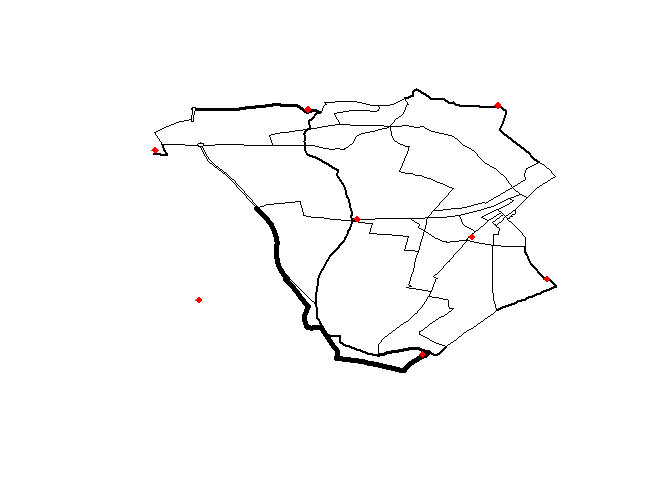
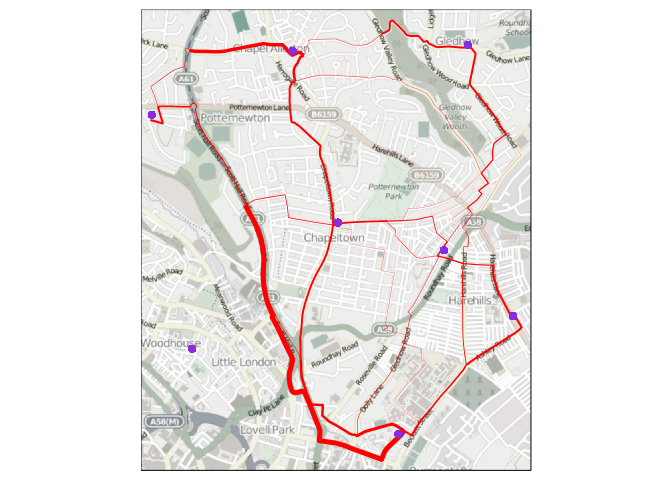
Update README to plot the flow on the basemap
Fixes this issue (that never was!) https://github.com/mtennekes/tmap/issues/35

diff --git a/README.md b/README.md
@@ -113,14 +113,29 @@ For more examples, `example("line2route")`.
 `gOverline` is a function which takes a series of route-allocated lines,
 splits them into unique segmentes and aggregates
 the values of overlapping lines. This can represent where there will be
-most traffic on the transport system, as illustrated below.
+most traffic on the transport system, as illustrated
+below.^[Thanks
+to Martijn Tennekes for helping
+with the plotting using [tmap](https://github.com/mtennekes/tmap).]
 
 
 ```r
 routes$All <- travel_network$All
 rnet <- gOverline(sldf = routes, attrib = "All", fun = sum)
-plot(rnet, lwd = rnet$All / mean(rnet$All))
-points(cents, col = "red", pch = 18)
+
+osm_tiles <- read_osm(bb(rnet, ext = 1.05))
+rnet$lwd <- rnet$All / mean(rnet$All)
+tm_shape(osm_tiles) +
+    tm_raster(saturation = .25) +
+tm_shape(rnet) +
+    tm_lines(lwd = "lwd", scale = 5, legend.lwd.show = FALSE)  +
+tm_shape(cents) +
+    tm_bubbles()
+```
+
+```
+## Warning in (function (x, shp_nm) : Currect projection of shape rnet
+## unknown. Long-lat (WGS84) is assumed.
 ```
 
 ![](README_files/figure-html/rnet-1.png) 
